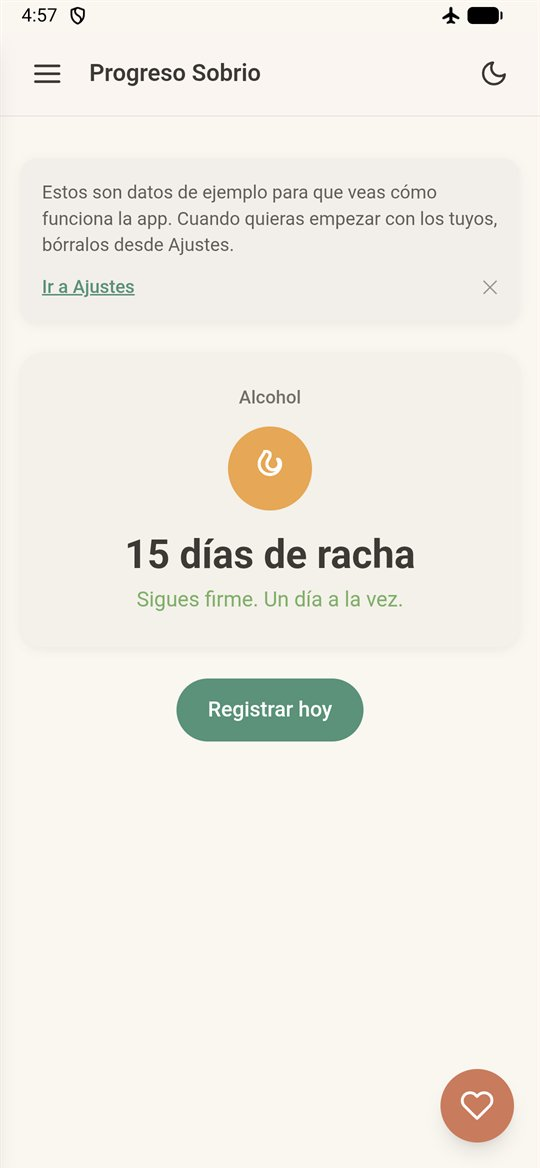
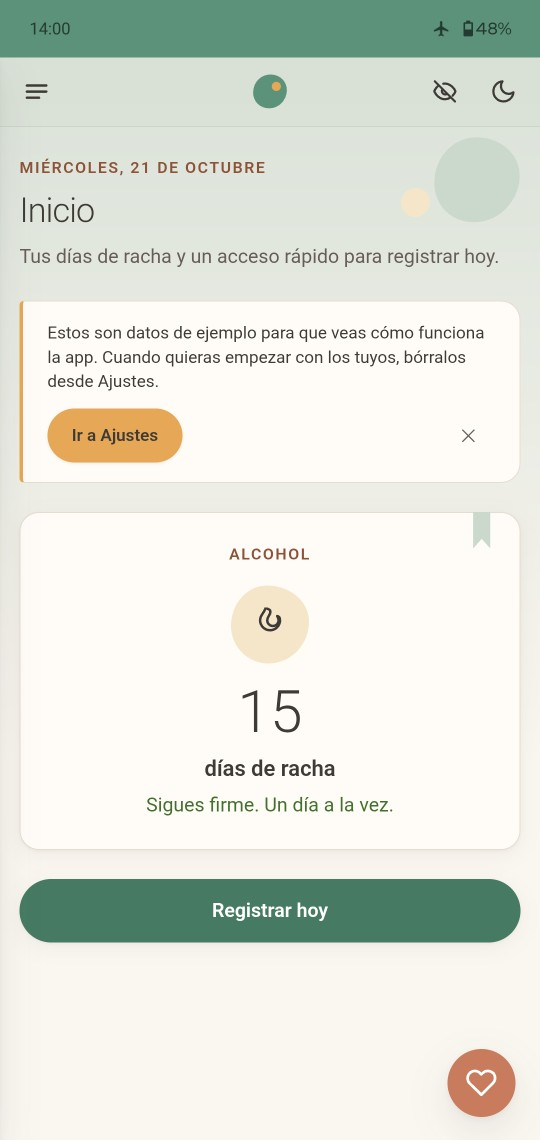
docs: captura de modo avión con el estilo actual de la app (#79)
- Captura real de la app en modo avión, con el estilo nuevo.

diff --git a/.github/imagenes/COMO-GENERAR.md b/.github/imagenes/COMO-GENERAR.md
@@ -24,7 +24,7 @@ Usa Edge (Windows) o Chrome/Chromium (Linux y macOS) sin ventana y con un perfil
 ## Capturas (`capturas/`)
 
 - Pantallas de la app con los **datos de ejemplo**, salvo las `04-*`, que son de un teléfono de prueba con una Xiaomi Smart Band 10 (mediciones de prueba, publicadas con permiso).
-- Recortadas sin la barra de estado ni la de navegación (para no mostrar notificaciones) y achicadas a 540 px de ancho. `05-modo-avion` conserva la barra de estado porque muestra el avión.
+- Recortadas sin la barra de estado ni la de navegación (para no mostrar notificaciones) y achicadas a 540 px de ancho. `05-modo-avion` conserva la barra de estado porque muestra el avión; solo se cambió la hora del reloj (a 14:00).
 - Para reemplazar una: toma la captura nueva, recórtala igual y guárdala con el mismo nombre. Antes de publicar, revisa que no muestre datos personales (nombres, teléfonos, notificaciones).
 
 ## Fuentes (`fuentes/`)
